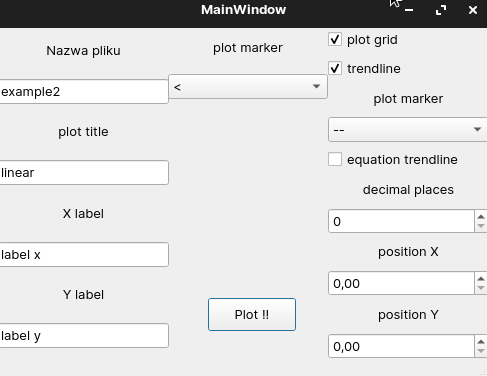
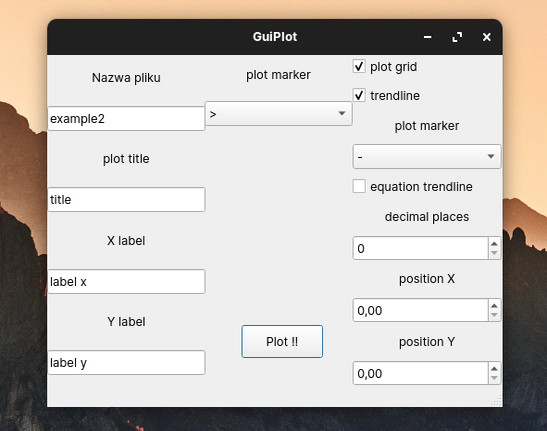
2.2 readme

diff --git a/README.md b/README.md
@@ -40,15 +40,16 @@ and then run script with an argument `--help`:
 $ python3 uiplot.py
 ```
 ## Basic usages
-
+As shown in the figure below, you must first specify the name of the data file, which should be in the same folder as the program. Then select the options we need and fill in the labels. Click plot it and enjoy the graph !
 
 <p align="center">
-  <img align="center" width="487" src="https://github.com/gunater/ChartingPrograms/blob/master/assets/example.png?raw=true">
+  <img align="center" width="auto" src="https://github.com/gunater/ChartingPrograms/blob/master/assets/1.png?raw=true">
 </p>
-
+below is the output chart:
 <p align="center">
   <img align="center" width="487" src="https://github.com/gunater/ChartingPrograms/blob/master/assets/2.png?raw=true">
 </p>
+
 ## License
 All code is licensed under an MIT license. This allows you to re-use the code freely, remixed in both commercial and non-commercial projects. The only requirement is to include the same license when distributing.
 
